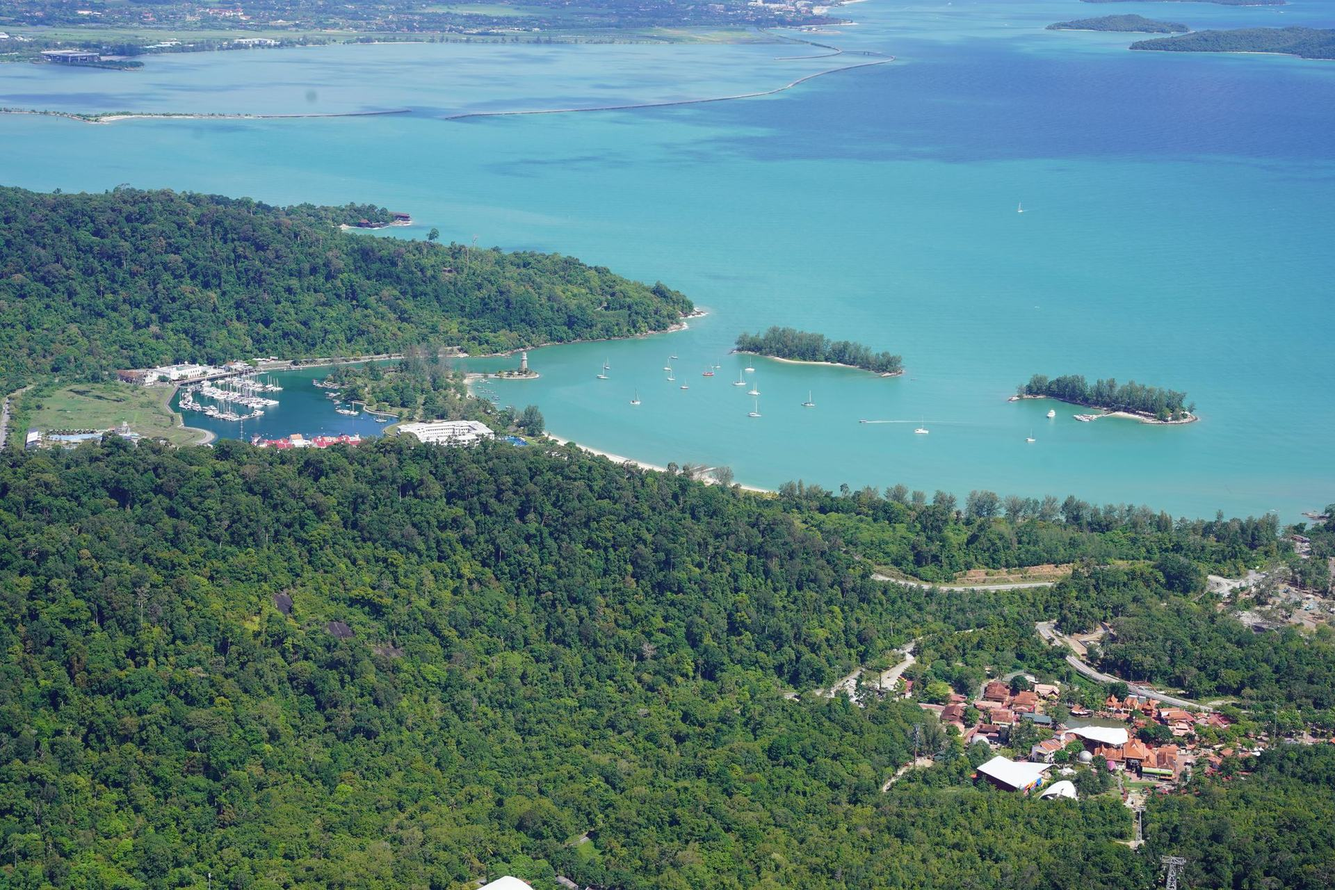
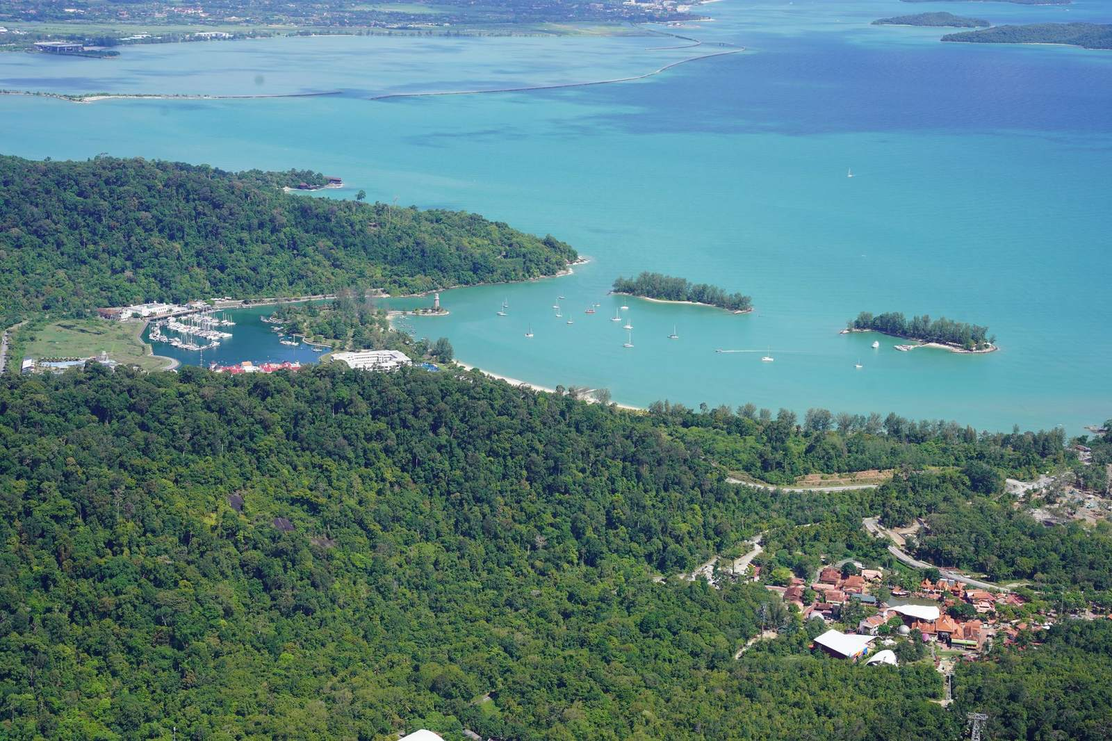
Azri v3: ringankan gambar hero

Changed region(s): [[0.8438, 0.7739, 0.875, 0.8049]]

diff --git a/langkawi-car-rental-azri/index.html b/langkawi-car-rental-azri/index.html
@@ -301,9 +301,9 @@ dialog#bk::backdrop{background:rgba(5,10,12,.66);backdrop-filter:blur(4px)}
 <main id="top">
 <section class="hero" aria-labelledby="h1">
 <div class="slides" id="slides" aria-hidden="true">
-<img class="on" src="img/h1.jpg" width="1920" height="1280" alt="" fetchpriority="high" data-c="Langkawi Sky Bridge">
-<img src="img/h2.jpg" width="1920" height="1280" alt="" loading="lazy" data-c="Telaga Harbour">
-<img src="img/h3.jpg" width="1920" height="1080" alt="" loading="lazy" data-c="Langkawi Yacht Marina">
+<img class="on" src="img/h1.jpg" width="1600" height="1067" alt="" fetchpriority="high" data-c="Langkawi Sky Bridge">
+<img src="img/h2.jpg" width="1600" height="1067" alt="" loading="lazy" data-c="Telaga Harbour">
+<img src="img/h3.jpg" width="1600" height="900" alt="" loading="lazy" data-c="Langkawi Yacht Marina">
 </div>
 <div class="cap" aria-hidden="true"><span id="capt">Langkawi Sky Bridge</span><span class="dots"><i class="on"></i><i></i><i></i></span></div>
 <div class="wrap">
@@ -416,7 +416,7 @@ dialog#bk::backdrop{background:rgba(5,10,12,.66);backdrop-filter:blur(4px)}
 </div>
 </div></section>
 
-<section class="final" aria-labelledby="fi-h"><img src="img/h3.jpg" width="1920" height="1080" alt="" loading="lazy">
+<section class="final" aria-labelledby="fi-h"><img src="img/h3.jpg" width="1600" height="900" alt="" loading="lazy">
 <div class="wrap"><h2 id="fi-h" data-en="Your Langkawi story &lt;em&gt;starts with the keys.&lt;/em&gt;">Kisah Langkawi anda <em>bermula dengan kunci.</em></h2>
 <p data-en="Choose your dates, pick a car and send. Azri takes care of the rest.">Pilih tarikh, pilih kereta dan hantar. Selebihnya Azri uruskan.</p>
 <div class="ctas"><a class="btn sun" href="#kereta" data-en="See available cars">Lihat pilihan kereta</a><a class="btn ghost" href="https://wa.me/60194863077" rel="noopener" data-en="WhatsApp Mat E">WhatsApp Mat E</a></div></div>
